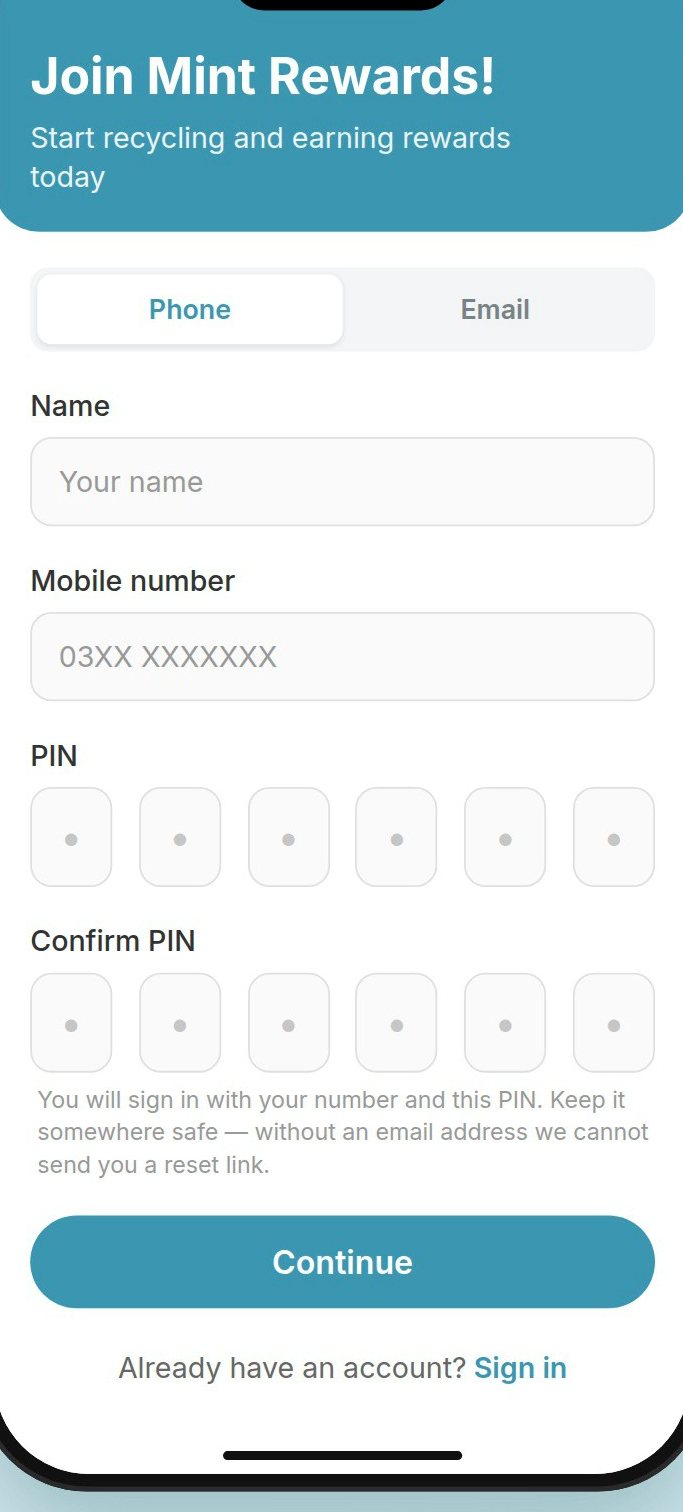
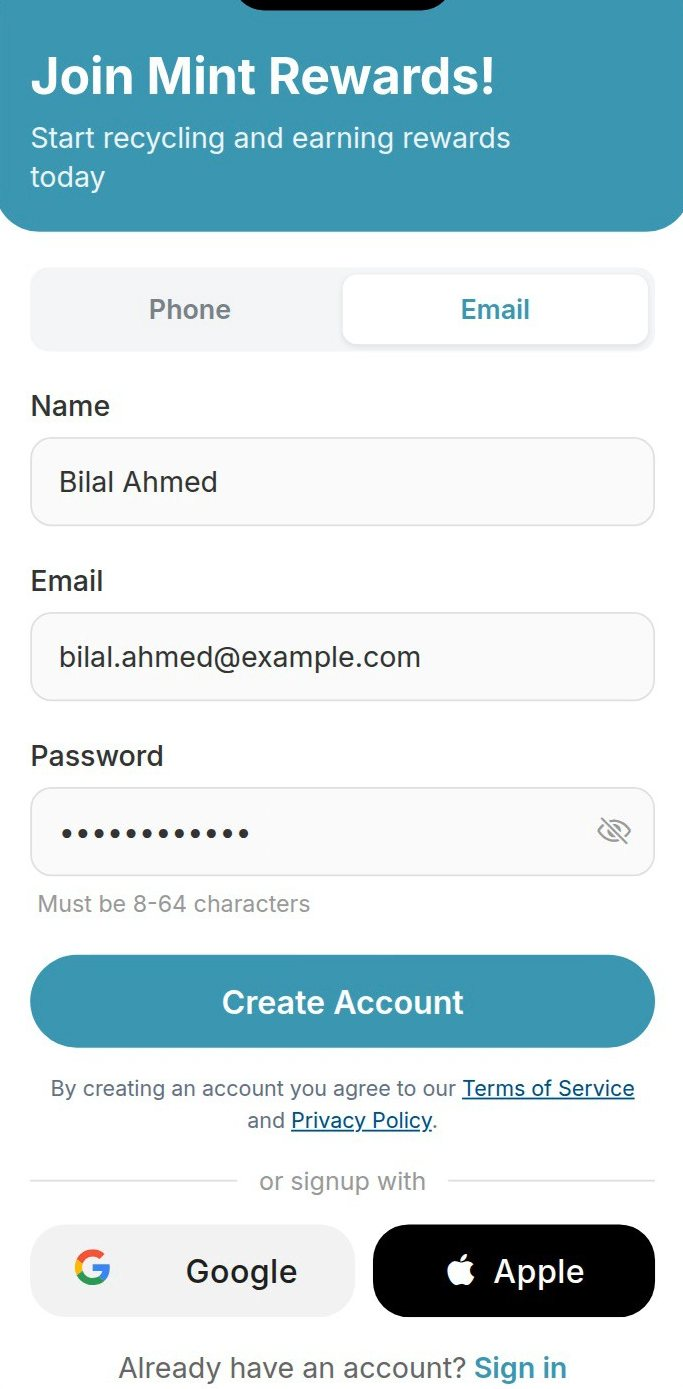
fix: the sticky stack clears the navigation, and shows the social buttons
THE CARDS WERE SLIDING UNDER THE HEADER. The two upper screens animate
`y` from -100%, so before they arrive they sit a full screen-height
above the phone — out in the page, passing beneath the fixed header,
which cut their tops off against the navigation.

`overflow-hidden` on the stack turns the same motion into a reveal
inside the phone, which is what it was always meant to look like, and
nothing escapes the frame. The rounding moves to that box with it, since
the images are clipped by it now. The sticky offset also drops from
top-24 to top-40 so the rotated card has clearance below the header
rather than touching it.

A note for whoever tests this next: getBoundingClientRect reports the
transformed layout box whether or not a parent clips it, so a geometric
check still reports the cards "behind the nav" after the fix. The thing
to verify is what is VISIBLE.

THE SIGNUP FRAME IS THE EMAIL ONE NOW, taken from 34s of the walkthrough
rather than the phone-number step: the email tab, filled, with Create
Account and the Google and Apple buttons beneath it. The login screen in
that recording never shows the social buttons at all — only the signup
screen does — so this is the only frame in the video that makes the
point.

And the crop is centred rather than top-aligned. The source is a real
phone at 9:20 against the 9:16 the cards are cut to, so something has to
go; taking it all off the bottom removed the Google and Apple buttons,
[…]

diff --git a/src/components/SectionCards.tsx b/src/components/SectionCards.tsx
@@ -80,8 +80,9 @@ export default function FeatureScrollSection() {
             occupied only the middle of a frame whose edges were invented.
             Letting the browser crop the overflow keeps the pixels honest:
             every card is the same shape and no image is distorted.
-            `object-top` so the crop comes off the bottom, where this
-            screen has least to lose.
+            `object-center` so the crop is shared top and bottom: taking it all
+            off the bottom cut away the Google and Apple buttons, which are
+            the reason this particular frame was chosen.
           */}
           {/* Mobile */}
           <div className="relative flex justify-center md:hidden pt-24 pb-16">
@@ -89,47 +90,60 @@ export default function FeatureScrollSection() {
               <img
                 src="/app-screens/app-signup.jpg"
                 alt=""
-                className="absolute left-1/2 top-1/2 z-30 -translate-x-[20px] -translate-y-[120px] h-[300px] w-[169px] opacity-90 rounded-2xl object-cover object-top shadow-lg z-0"
+                className="absolute left-1/2 top-1/2 z-30 -translate-x-[20px] -translate-y-[120px] h-[300px] w-[169px] opacity-90 rounded-2xl object-cover object-center shadow-lg z-0"
               />
 
               <img
                 src="/app-screens/app-home.jpg"
                 alt=""
-                className="absolute left-1/2 top-1/2 z-30 -translate-x-[120px] -translate-y-[80px] h-[320px] w-[180px] -rotate-25 rounded-2xl object-cover object-top shadow-xl z-10"
+                className="absolute left-1/2 top-1/2 z-30 -translate-x-[120px] -translate-y-[80px] h-[320px] w-[180px] -rotate-25 rounded-2xl object-cover object-center shadow-xl z-10"
               />
 
               <img
                 src="/app-screens/app-coupon.jpg"
                 alt=""
-                className="absolute left-1/2 top-1/2 z-30 -translate-x-1/2 h-[340px] w-[191px] -rotate-5 rounded-2xl object-cover object-top shadow-2xl z-20"
+                className="absolute left-1/2 top-1/2 z-30 -translate-x-1/2 h-[340px] w-[191px] -rotate-5 rounded-2xl object-cover object-center shadow-2xl z-20"
               />
-              <div className="absolute left-1/2 top-1/2 -translate-x-1/2 h-[340px] w-[191px] -rotate-5 rounded-2xl object-cover object-top shadow-2xl z-20">
+              <div className="absolute left-1/2 top-1/2 -translate-x-1/2 h-[340px] w-[191px] -rotate-5 rounded-2xl object-cover object-center shadow-2xl z-20">
                 <GlowingOrb />
               </div>
             </div>
           </div>
           {/* Desktop */}
           <div className="relative hidden md:block">
-            <div className="sticky top-24 hidden md:flex justify-center items-start h-screen">
+            <div className="sticky top-40 hidden md:flex justify-center items-start h-screen">
+              {/*
+                `overflow-hidden` clips the stack to the phone.
+
+                The two upper cards animate `y` from -100%, so before they
+                arrive they sit a full screen-height ABOVE this box — out in
+                the page, sliding under the fixed header, which cut their
+                tops off against the navigation. Clipping here turns the
+                same motion into a reveal inside the phone, which is what it
+                was always meant to look like, and nothing escapes the frame.
+
+                The rounding moves here with it: the images are clipped by
+                this box now, so the corners have to be cut on this box.
+              */}
               <motion.div
                 style={{ rotate }}
-                className="relative w-[300px] aspect-[9/16]"
+                className="relative w-[300px] aspect-[9/16] overflow-hidden rounded-2xl"
               >
                 <img
                   src="/app-screens/app-signup.jpg"
                   alt="Three screens from the Mint Rewards app: creating an account, booking a collection, and redeeming a reward"
-                  className="absolute inset-0 z-1 h-full w-full rounded-2xl object-cover object-top drop-shadow-lg"
+                  className="absolute inset-0 z-1 h-full w-full rounded-2xl object-cover object-center drop-shadow-lg"
                 />
 
                 <motion.img
                   style={{ y: tasksY, opacity: tasksOpacity }}
                   src="/app-screens/app-home.jpg"
-                  className="absolute inset-0 z-2 h-full w-full rounded-2xl object-cover object-top shadow-lg"
+                  className="absolute inset-0 z-2 h-full w-full rounded-2xl object-cover object-center shadow-lg"
                 />
                 <motion.img
                   style={{ y: goalsY, opacity: goalsOpacity }}
                   src="/app-screens/app-coupon.jpg"
-                  className="absolute inset-0 z-3 h-full w-full rounded-2xl object-cover object-top shadow-lg"
+                  className="absolute inset-0 z-3 h-full w-full rounded-2xl object-cover object-center shadow-lg"
                 />
               </motion.div>
             </div>
